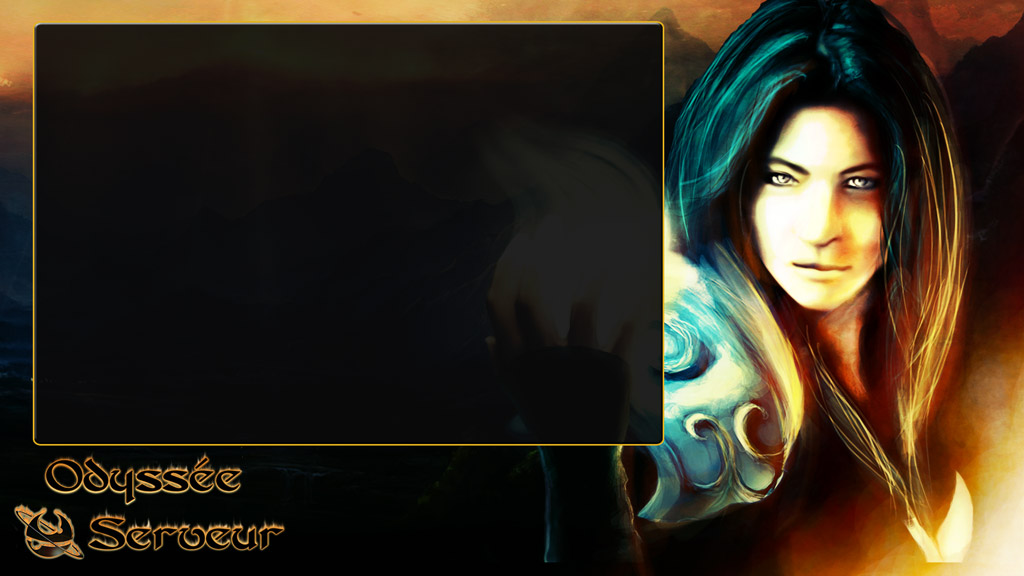
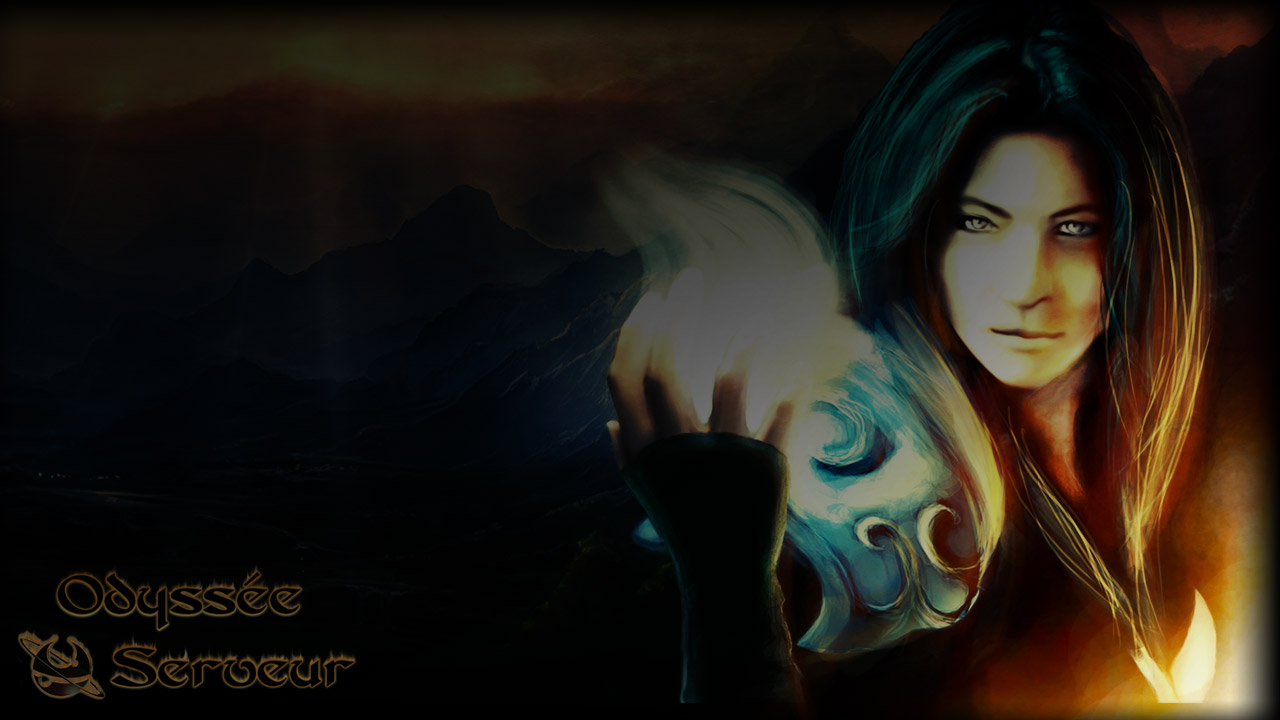
fix fond

Changed region(s): [[0.0, 0.0, 1.0, 0.9688], [0.75, 0.4062, 1.0, 1.0], [0.9688, 0.1875, 1.0, 0.2188]]

diff --git a/include/modules/modtwitter.php b/include/modules/modtwitter.php
@@ -50,7 +50,7 @@ function twitter($text)
 $search = array('|(http://[^ ]+)|', '/(^|[^a-z0-9_])@([a-z0-9_]+)/i','/(^|[^a-z0-9_])#([a-z0-9_]+)/i');
 $replace = array('<a href="$1" class="lienvrai">$1</a>', '$1@<a href="http://bug.odyssee-serveur.com/issues/$2">$2</a>','$1<a href="http://bug.odyssee-serveur.com/issues/$2">#$2</a>');
 $text = preg_replace($search, $replace, $text);
-$txt1 = str_replace( array("nonox","agmagor", "stroff"), array("<font color=red>Nonox</font>","<font color=red>Agmagor</font>", "<font color=red>Stroff</font>"), $text );
+$txt1 = str_replace( array("nonox","agmagor", "stroff", "Elyotna"), array("<font color=red>Nonox</font>","<font color=red>Agmagor</font>", "<font color=red>Stroff</font>"),"<font color=red>Elyotna</font>", $text );
 return($txt1);
 }
 init();

diff --git a/news_2.php b/news_2.php
@@ -1,4 +1,4 @@
-<div style="background: url(http://www.odywow.com/medias/images/fondnewsletter.jpg) center no-repeat #000; ">
+<div style="background: url(http://www.odywow.com/medias/images/fondnewsletter.jpg) center no-repeat #000; ">
 <style type="text/css">body, html
 {
 
@@ -9,6 +9,8 @@
 	margin-left:auto;
 	margin-right:auto;
 	list-style-image: url(../medias/images/puce.gif);
+        font-size: 90%;
+        clor: #
 }
 h1
 {
